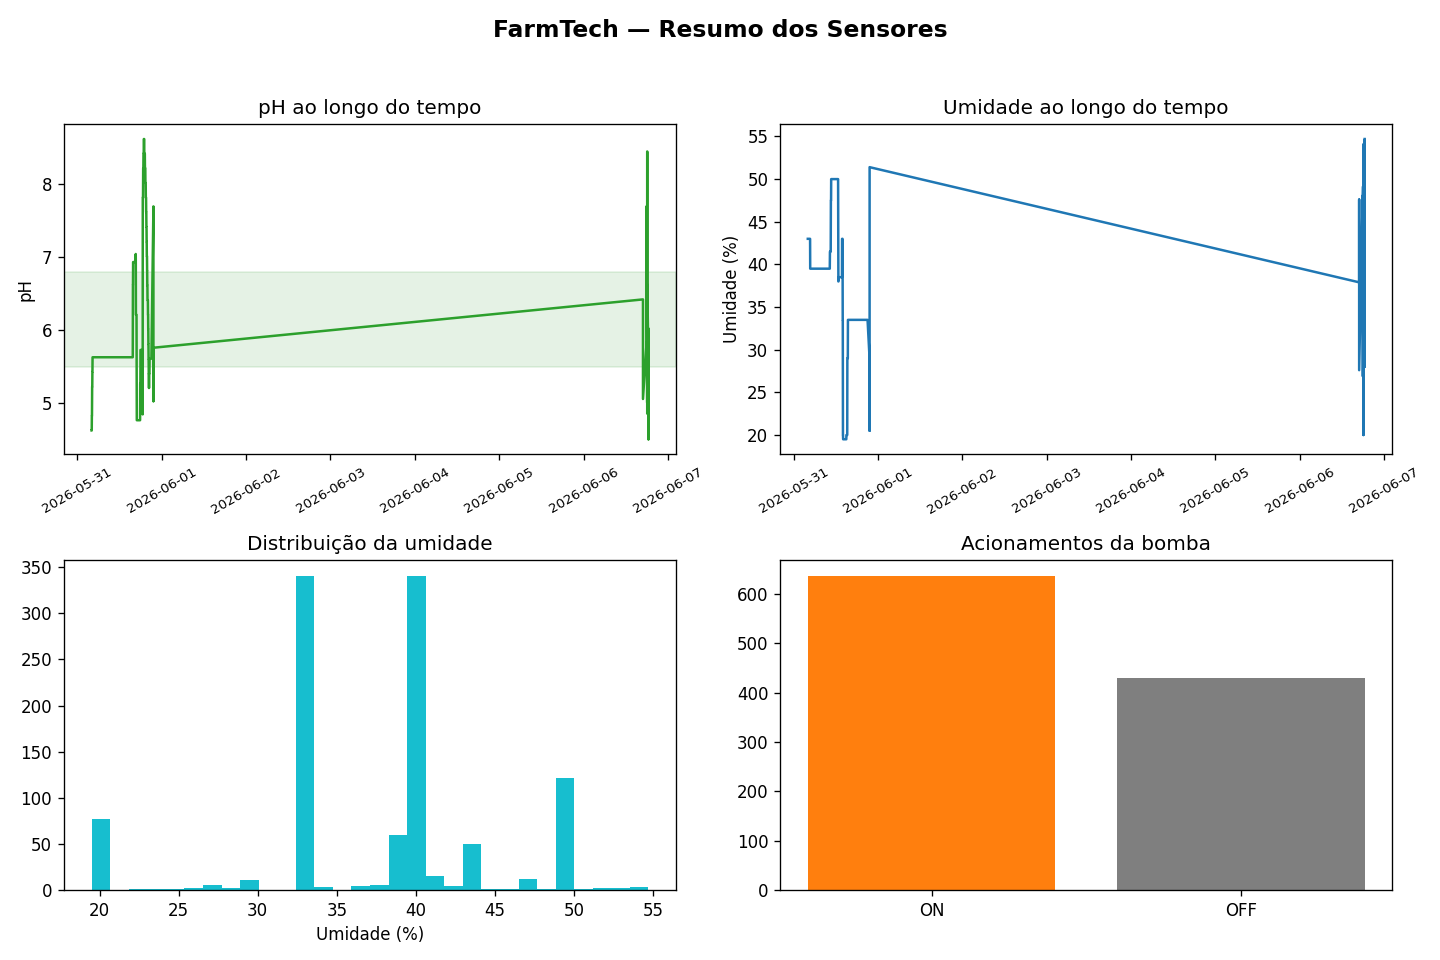
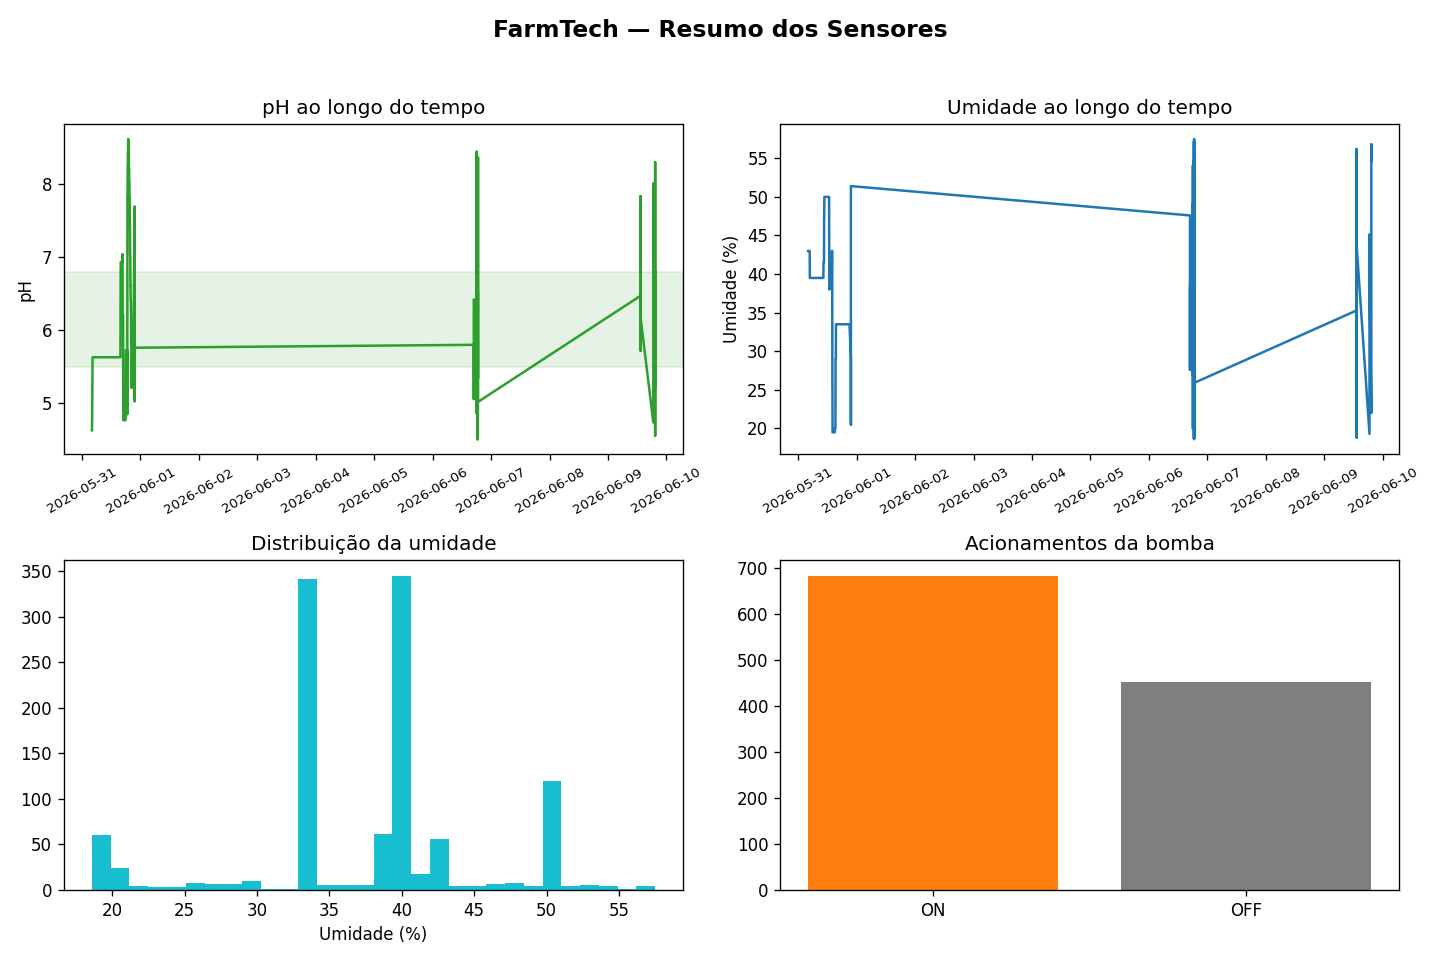
Fase 7 final: LCD no ESP32, link do video e ajustes

diff --git a/README.md b/README.md
@@ -1,4 +1,8 @@
-# 🌱 FarmTech Solutions — Sistema Integrado de Agronegócio (Fase 7)
+<a href="https://www.fiap.com.br/">
+  <img width="2385" height="642" alt="logo-fiap" src="https://github.com/user-attachments/assets/62285a6c-34fe-4206-8a85-7ad584c6908b" border="0" width="40%" height="40%">
+</a>
+
+<br>
 
 > Consolidação das Fases 1 a 6 em uma única pasta de projeto Python, com uma
 > **dashboard integradora** (Streamlit) e um **serviço de mensageria na AWS**
@@ -6,13 +10,19 @@
 
 ---
 
-## 1. Grupo e integrantes
+## 👨💻 Grupo 31
+**Curso:** 1TIAOS – Fase 7
+**Setor de aplicação:** Agronegócio (arquitetura genérica e parametrizável)
 
-- **Grupo:** 1TIAO
-- **Integrantes:**
-  - Silvio Prestes Guerreiro Junior — RM567958
-- **Curso/Fase:** FIAP — Fase 7 (Consolidação de um Sistema)
-- **Setor de aplicação:** Agronegócio (arquitetura genérica e parametrizável)
+## 👨🎓 Integrantes
+- [**Silvio Prestes Guerreiro Junior**](https://www.linkedin.com/in/silvio-guerreiro-junior/)
+- **RM:** 567958
+
+## 👩🏫 Professores
+- **Tutor(a):** [Sabrina Otoni](https://www.linkedin.com/company/inova-fusca)
+- **Coordenador(a):** [André Godoi Chiovato](https://www.linkedin.com/company/inova-fusca)
+
+
 
 ---
 
@@ -194,10 +204,11 @@ Parametrizada em `config/settings.py` (`LIMIARES`):
 
 ## 8. 🎥 Vídeo demonstrativo (YouTube — não listado)
 
-**Link:** `<<< COLE AQUI O LINK DO YOUTUBE (NÃO LISTADO) >>>`
+**Link:** https://youtu.be/4RMHjiY2RlU
 
-Roteiro sugerido (≤ 5 min): visão geral → dashboard (Fases 1–6) → disparo de
-alerta na Fase 7 (modo simulado e/ou AWS real) → prints da AWS.
+Vídeo demonstrativo (≤ 8 min): visão geral → dashboard percorrendo as Fases 1 a 6
+→ disparo de alerta na Fase 7 (Amazon SNS, modo AWS real). Demonstração feita
+inteiramente na dashboard integradora.
 
 ---
 
